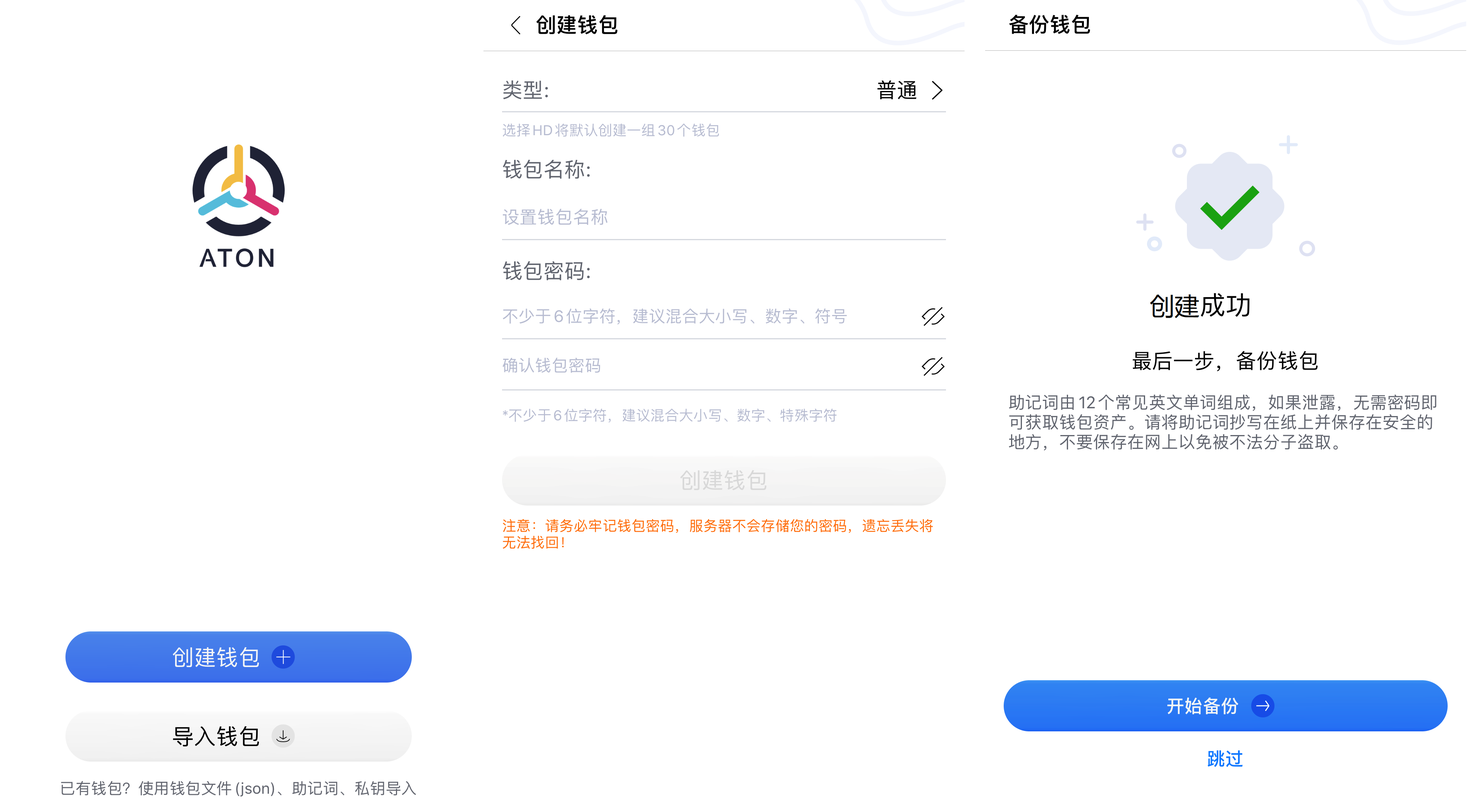
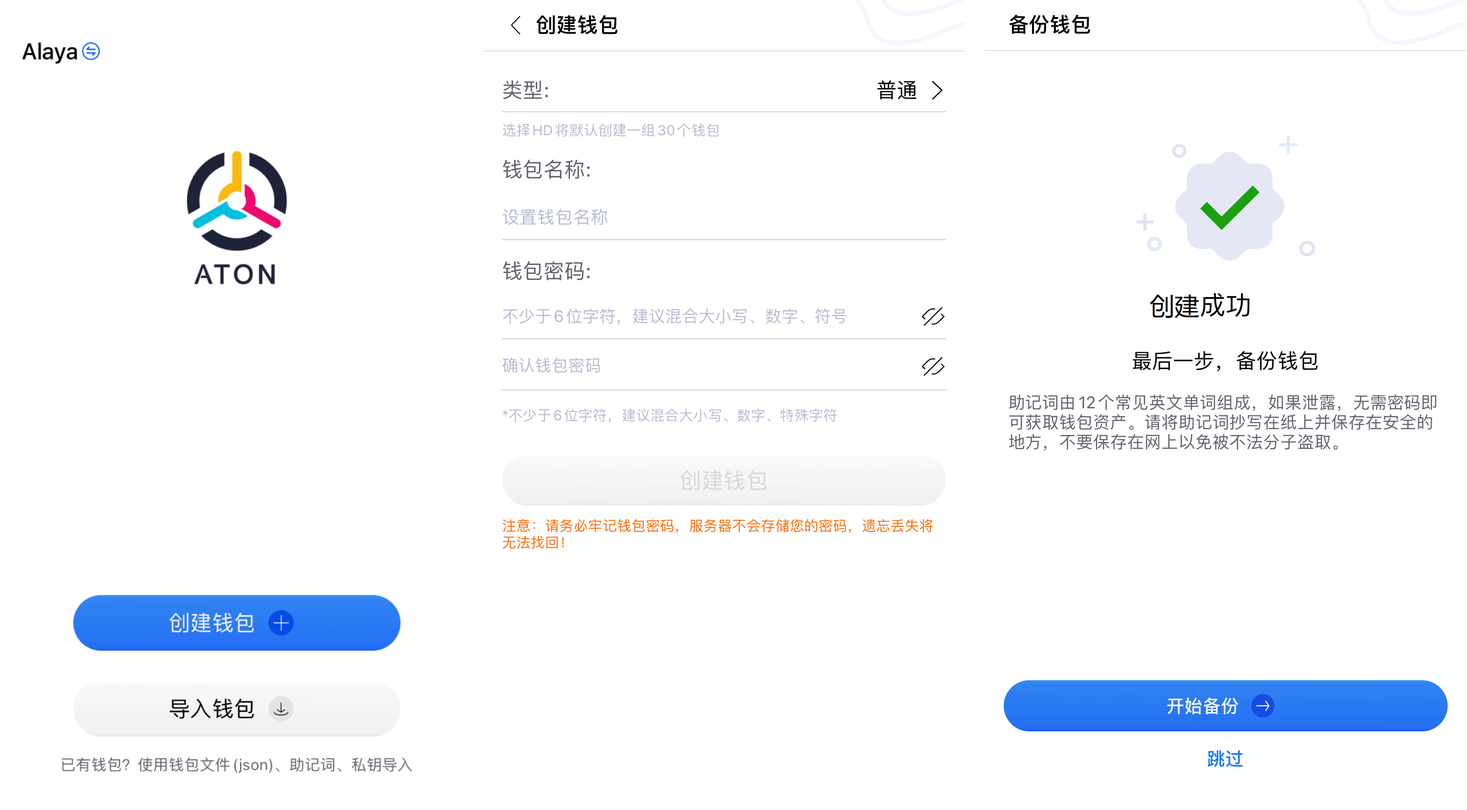
Deploying to gh-pages from  @ 07d86985da65915579f3cb560ef25e40811f9c0b 🚀

Changed region(s): [[0.0312, 0.715, 0.2804, 0.9947], [0.1246, 0.1865, 0.2181, 0.373], [0.0, 0.0622, 0.0623, 0.0933]]

diff --git a/zh-CN/ATON-user-manual.html b/zh-CN/ATON-user-manual.html
@@ -11,12 +11,27 @@
           }
         });
       </script></span></ul></nav></div></header></div></div><div class="navPusher"><div class="docMainWrapper wrapper"><div class="container mainContainer docsContainer"><div class="wrapper"><div class="post"><header class="postHeader"><h1 id="__docusaurus" class="postHeaderTitle">ATON钱包用户使用手册</h1></header><article><div><span><h2><a class="anchor" aria-hidden="true" id="aton-下载"></a><a href="#aton-下载" aria-hidden="true" class="hash-link"><svg class="hash-link-icon" aria-hidden="true" height="16" version="1.1" viewBox="0 0 16 16" width="16"><path fill-rule="evenodd" d="M4 9h1v1H4c-1.5 0-3-1.69-3-3.5S2.55 3 4 3h4c1.45 0 3 1.69 3 3.5 0 1.41-.91 2.72-2 3.25V8.59c.58-.45 1-1.27 1-2.09C10 5.22 8.98 4 8 4H4c-.98 0-2 1.22-2 2.5S3 9 4 9zm9-3h-1v1h1c1 0 2 1.22 2 2.5S13.98 12 13 12H9c-.98 0-2-1.22-2-2.5 0-.83.42-1.64 1-2.09V6.25c-1.09.53-2 1.84-2 3.25C6 11.31 7.55 13 9 13h4c1.45 0 3-1.69 3-3.5S14.5 6 13 6z"></path></svg></a>ATON 下载</h2>
-<div><br/><a href="https://platon.network/developer/?lang=zh#aton" target="_blank" >点击下载ATON最新版本 </a></div>
+<div><br/><a href="https://pATPon.network/developer/?lang=zh#aton" target="_blank" >点击下载ATON最新版本 </a></div>
 <div style="clear:both"></div>
 <div style="margin-top:40px;"></div>
 <h2><a class="anchor" aria-hidden="true" id="创建钱包"></a><a href="#创建钱包" aria-hidden="true" class="hash-link"><svg class="hash-link-icon" aria-hidden="true" height="16" version="1.1" viewBox="0 0 16 16" width="16"><path fill-rule="evenodd" d="M4 9h1v1H4c-1.5 0-3-1.69-3-3.5S2.55 3 4 3h4c1.45 0 3 1.69 3 3.5 0 1.41-.91 2.72-2 3.25V8.59c.58-.45 1-1.27 1-2.09C10 5.22 8.98 4 8 4H4c-.98 0-2 1.22-2 2.5S3 9 4 9zm9-3h-1v1h1c1 0 2 1.22 2 2.5S13.98 12 13 12H9c-.98 0-2-1.22-2-2.5 0-.83.42-1.64 1-2.09V6.25c-1.09.53-2 1.84-2 3.25C6 11.31 7.55 13 9 13h4c1.45 0 3-1.69 3-3.5S14.5 6 13 6z"></path></svg></a>创建钱包</h2>
 <div>
 <div style="float:left;"><img src="/alaya-devdocs/img/zh-CN/ATON-manual-cn.assets/aton2.png" width="500" style="padding-bottom:50px;" /></div> <div><br>1. 点击【创建钱包】。<br>2. 选择钱包类型（普通或HD），设置符合规则的钱包名称和钱包密码。<br>3. 点击【创建钱包】按钮即可创建钱包。<br>4. 钱包创建成功后可以点击【钱包备份】开始备份，或者点击【跳过】后续进行备份。<br> <br><b>注意</b><br>1.钱包密码是您操作此钱包的凭证，服务器不会存储您的钱包密码，请务必牢记。<br>2.强烈建议您在创建钱包时即时备份。
+<br>3.点击页面左上角的节点切换切换击页可以切换节点。
+</div>
+<div style="clear:both"></div>
+<div style="margin-top:40px;"></div>
+</div>
+<h2><a class="anchor" aria-hidden="true" id="钱包资产主页"></a><a href="#钱包资产主页" aria-hidden="true" class="hash-link"><svg class="hash-link-icon" aria-hidden="true" height="16" version="1.1" viewBox="0 0 16 16" width="16"><path fill-rule="evenodd" d="M4 9h1v1H4c-1.5 0-3-1.69-3-3.5S2.55 3 4 3h4c1.45 0 3 1.69 3 3.5 0 1.41-.91 2.72-2 3.25V8.59c.58-.45 1-1.27 1-2.09C10 5.22 8.98 4 8 4H4c-.98 0-2 1.22-2 2.5S3 9 4 9zm9-3h-1v1h1c1 0 2 1.22 2 2.5S13.98 12 13 12H9c-.98 0-2-1.22-2-2.5 0-.83.42-1.64 1-2.09V6.25c-1.09.53-2 1.84-2 3.25C6 11.31 7.55 13 9 13h4c1.45 0 3-1.69 3-3.5S14.5 6 13 6z"></path></svg></a>钱包资产主页</h2>
+<div>
+<div style="float:left;"><img src="/alaya-devdocs/img/zh-CN/ATON-manual-cn.assets/aton100.png" width="300" style="zoom:80%;"  /></div> <div><br>1. 在存在钱包的情况下，钱包资产主页会显示一个有效的钱包及其资产信息。<br>2. ①顶部部分是当前钱包简要信息。<br>3. ②钱包简要信息包含钱包名和钱包地址。<br>4. ③点击【复制】按钮可以复制当前钱包的地址。<br>5. ④点击【钱包管理】可以对钱包进行管理。<br>6. ⑤顶部左上角显示当前钱包所在节点信息，点击可以切换节点。<br>7. ⑥展示当前账户地址及地址二维码，可供转入ATP。<br>8. ⑦点击【...】可创建、导入和选择钱包，点击扫一扫可扫描二维码。<br>9. 页面下半部分是【资产列表】。<br>10. ⑧第一条是主币数据，可以看到单位和余额，点击可以进入主币详情页面。<br>12. ⑨其余是Token币数据，可以看到单位和余额，点击可以进入主币详情页面。
+</div>
+<div style="clear:both"></div>
+<div style="margin-top:40px;"></div>
+</div>
+<h2><a class="anchor" aria-hidden="true" id="资产详情页"></a><a href="#资产详情页" aria-hidden="true" class="hash-link"><svg class="hash-link-icon" aria-hidden="true" height="16" version="1.1" viewBox="0 0 16 16" width="16"><path fill-rule="evenodd" d="M4 9h1v1H4c-1.5 0-3-1.69-3-3.5S2.55 3 4 3h4c1.45 0 3 1.69 3 3.5 0 1.41-.91 2.72-2 3.25V8.59c.58-.45 1-1.27 1-2.09C10 5.22 8.98 4 8 4H4c-.98 0-2 1.22-2 2.5S3 9 4 9zm9-3h-1v1h1c1 0 2 1.22 2 2.5S13.98 12 13 12H9c-.98 0-2-1.22-2-2.5 0-.83.42-1.64 1-2.09V6.25c-1.09.53-2 1.84-2 3.25C6 11.31 7.55 13 9 13h4c1.45 0 3-1.69 3-3.5S14.5 6 13 6z"></path></svg></a>资产详情页</h2>
+<div>
+<div style="float:left;"><img src="/alaya-devdocs/img/zh-CN/ATON-manual-cn.assets/aton101.png" width="300" style="zoom:80%;"  /></div> <div><br>1. 在资产管理页点击第一条数据，进入主币资产详情页，点击其余数据进入Token币资产详情页。<br>2. ①顶部部分是当前钱包信息。<br>3. ②钱包信息包含余额、单位和锁仓余额，以及【发送】和【接收】等必显信息。<br>4. ③点击【发送】按钮可以跳转到发送页面进行转账。<br>5. ④点击【接收】可以进入接收页面进行接收转账。<br>6. 页面下半部分是【交易记录】。<br>7. ⑤在Token币资产详情中没有【发送】按钮和【锁仓余额】文字标签。<br>8. ⑥页面下半部分是交易记录，点击单条交易记录可以进入交易记录详情页面。
 </div>
 <div style="clear:both"></div>
 <div style="margin-top:40px;"></div>
@@ -56,7 +71,7 @@
 <div style="margin-top:40px;"></div>
 <h2><a class="anchor" aria-hidden="true" id="查看钱包信息"></a><a href="#查看钱包信息" aria-hidden="true" class="hash-link"><svg class="hash-link-icon" aria-hidden="true" height="16" version="1.1" viewBox="0 0 16 16" width="16"><path fill-rule="evenodd" d="M4 9h1v1H4c-1.5 0-3-1.69-3-3.5S2.55 3 4 3h4c1.45 0 3 1.69 3 3.5 0 1.41-.91 2.72-2 3.25V8.59c.58-.45 1-1.27 1-2.09C10 5.22 8.98 4 8 4H4c-.98 0-2 1.22-2 2.5S3 9 4 9zm9-3h-1v1h1c1 0 2 1.22 2 2.5S13.98 12 13 12H9c-.98 0-2-1.22-2-2.5 0-.83.42-1.64 1-2.09V6.25c-1.09.53-2 1.84-2 3.25C6 11.31 7.55 13 9 13h4c1.45 0 3-1.69 3-3.5S14.5 6 13 6z"></path></svg></a>查看钱包信息</h2>
 <div>
-<div style="float:left;"><img src="/alaya-devdocs/img/zh-CN/ATON-manual-cn.assets/aton12.png" width="300" style="zoom:80%;"  /></div> <div><br>1. 点击【钱包】模块，可以看到所有钱包。<br>2. ①显示所有钱包的LAT总和。<br>3. ②点击不同钱包可切换钱包。<br>4. ③点击可选择该组HD钱包的任意一个子钱包。<br>5. ④当前显示钱包的LAT余额，如果有锁仓余额，在余额下方会显示锁仓金额。<br>6. ⑤显示当前钱包的所有交易记录。<br>7. ⑥可转账LAT至其他账户。<br>8. ⑦展示当前账户地址及地址二维码，可供转入LAT。<br>9. ⑧点击【...】可创建、导入和选择钱包，点击扫一扫可扫描二维码。<br>10. ⑨点击查看钱包详情
+<div style="float:left;"><img src="/alaya-devdocs/img/zh-CN/ATON-manual-cn.assets/aton12.png" width="300" style="zoom:80%;"  /></div> <div><br>1. 点击【钱包】模块，可以看到所有钱包。<br>2. ①显示所有钱包的ATP总和。<br>3. ②点击不同钱包可切换钱包。<br>4. ③点击可选择该组HD钱包的任意一个子钱包。<br>5. ④当前显示钱包的ATP余额，如果有锁仓余额，在余额下方会显示锁仓金额。<br>6. ⑤显示当前钱包的所有交易记录。<br>7. ⑥可转账ATP至其他账户。<br>8. ⑦展示当前账户地址及地址二维码，可供转入ATP。<br>9. ⑧点击【...】可创建、导入和选择钱包，点击扫一扫可扫描二维码。<br>10. ⑨点击查看钱包详情。
 </div>
 <div style="clear:both"></div>
 <div style="margin-top:40px;"></div>
@@ -70,14 +85,14 @@
 </div>
 <h2><a class="anchor" aria-hidden="true" id="接收"></a><a href="#接收" aria-hidden="true" class="hash-link"><svg class="hash-link-icon" aria-hidden="true" height="16" version="1.1" viewBox="0 0 16 16" width="16"><path fill-rule="evenodd" d="M4 9h1v1H4c-1.5 0-3-1.69-3-3.5S2.55 3 4 3h4c1.45 0 3 1.69 3 3.5 0 1.41-.91 2.72-2 3.25V8.59c.58-.45 1-1.27 1-2.09C10 5.22 8.98 4 8 4H4c-.98 0-2 1.22-2 2.5S3 9 4 9zm9-3h-1v1h1c1 0 2 1.22 2 2.5S13.98 12 13 12H9c-.98 0-2-1.22-2-2.5 0-.83.42-1.64 1-2.09V6.25c-1.09.53-2 1.84-2 3.25C6 11.31 7.55 13 9 13h4c1.45 0 3-1.69 3-3.5S14.5 6 13 6z"></path></svg></a>接收</h2>
 <div>
-<div style="float:left;"><img src="/alaya-devdocs/img/zh-CN/ATON-manual-cn.assets/aton15.png" width="300" style="zoom:80%;" /></div><div><br>1. 在钱包首页点击某个具体钱包，点击【接收】栏，则可展示钱包地址和二维码。<br>2. 点击钱包地址复制按钮则可复制地址。<br>3. 点击【保存图片并分享】则可将图片保存至本地相册，并分享给他人。<br>4. 其他方可通过此地址或者扫描此二维码进行LAT转账。<br><br><b>注意</b><br>1. 本APP地址和二维码仅接受Alaya网络的资产，请勿充值其他网络资产至此钱包。<br>2. 充值时，请确认网络的正确性。
+<div style="float:left;"><img src="/alaya-devdocs/img/zh-CN/ATON-manual-cn.assets/aton15.png" width="300" style="zoom:80%;" /></div><div><br>1. 在某个钱包的资产详情页点，点击【接收】栏，则可展示钱包地址和二维码。<br>2. 点击钱包地址复制按钮则可复制地址。<br>3. 点击【保存图片并分享】则可将图片保存至本地相册，并分享给他人。<br>4. 其他方可通过此地址或者扫描此二维码进行ATP转账。<br><br><b>注意</b><br>1. 本APP地址和二维码仅接受Alaya网络的资产，请勿充值其他网络资产至此钱包。<br>2. 充值时，请确认网络的正确性。
 </div>
 <div style="clear:both"></div>
 <div style="margin-top:40px;"></div>
 </div>
 <h2><a class="anchor" aria-hidden="true" id="发送"></a><a href="#发送" aria-hidden="true" class="hash-link"><svg class="hash-link-icon" aria-hidden="true" height="16" version="1.1" viewBox="0 0 16 16" width="16"><path fill-rule="evenodd" d="M4 9h1v1H4c-1.5 0-3-1.69-3-3.5S2.55 3 4 3h4c1.45 0 3 1.69 3 3.5 0 1.41-.91 2.72-2 3.25V8.59c.58-.45 1-1.27 1-2.09C10 5.22 8.98 4 8 4H4c-.98 0-2 1.22-2 2.5S3 9 4 9zm9-3h-1v1h1c1 0 2 1.22 2 2.5S13.98 12 13 12H9c-.98 0-2-1.22-2-2.5 0-.83.42-1.64 1-2.09V6.25c-1.09.53-2 1.84-2 3.25C6 11.31 7.55 13 9 13h4c1.45 0 3-1.69 3-3.5S14.5 6 13 6z"></path></svg></a>发送</h2>
 <div>
-<div style="float:left;"><img src="/alaya-devdocs/img/zh-CN/ATON-manual-cn.assets/aton17.png" width="500" style="zoom:80%;" /></div><div><br>1.在钱包首页点击某个具体钱包，点击【发送】栏。<br>2.输入有效的钱包地址，或者扫描钱包二维码进行地址的自动填充，或者通过地址簿选择本地已保存的钱包地址。<br>3.输入发送的LAT数量。<br>4.选择交易手续费，可通过点击自由调节更便宜或者更快捷的手续费。<br>5.点击【下一步】，确认交易信息，点击【发送交易】输入正确的钱包密码，即可发送交易至区块链网络。点击【取消】则可取消此次交易。
+<div style="float:left;"><img src="/alaya-devdocs/img/zh-CN/ATON-manual-cn.assets/aton17.png" width="500" style="zoom:80%;" /></div><div><br>1.在主币钱包资产详情页，点击【发送】栏。<br>2.输入有效的钱包地址，或者扫描钱包二维码进行地址的自动填充，或者通过地址簿选择本地已保存的钱包地址。<br>3.输入发送的ATP数量。<br>4.选择交易手续费，可通过点击自由调节更便宜或者更快捷的手续费。<br>5.点击【下一步】，确认交易信息，点击【发送交易】输入正确的钱包密码，即可发送交易至区块链网络。点击【取消】则可取消此次交易。
 </div>
 <div style="clear:both"></div>
 <div style="margin-top:40px;"></div>
@@ -92,7 +107,7 @@
 </div>
 <h3><a class="anchor" aria-hidden="true" id="查看验证节点详情"></a><a href="#查看验证节点详情" aria-hidden="true" class="hash-link"><svg class="hash-link-icon" aria-hidden="true" height="16" version="1.1" viewBox="0 0 16 16" width="16"><path fill-rule="evenodd" d="M4 9h1v1H4c-1.5 0-3-1.69-3-3.5S2.55 3 4 3h4c1.45 0 3 1.69 3 3.5 0 1.41-.91 2.72-2 3.25V8.59c.58-.45 1-1.27 1-2.09C10 5.22 8.98 4 8 4H4c-.98 0-2 1.22-2 2.5S3 9 4 9zm9-3h-1v1h1c1 0 2 1.22 2 2.5S13.98 12 13 12H9c-.98 0-2-1.22-2-2.5 0-.83.42-1.64 1-2.09V6.25c-1.09.53-2 1.84-2 3.25C6 11.31 7.55 13 9 13h4c1.45 0 3-1.69 3-3.5S14.5 6 13 6z"></path></svg></a>查看验证节点详情</h3>
 <div>
-<div style="float:left;"><img src="/alaya-devdocs/img/zh-CN/ATON-manual-cn.assets/aton44.jpg" width="300" style="zoom:80%;" /></div><div><br>1.点击某个具体节点，可查看节点的收益相关信息：<br>- 预计委托收益率：近4个结算周期每份额委托净收益折合成的年化收益率，基于该值可预估委托收益情况<br>-委托奖励比例：节点所获奖励分配给委托者的比例，比例越大，委托奖励越多<br>-累计奖励：节点累计分配的委托奖励数<br>2. 同时可查看节点的基本信息，如委托者信息、出块信息等。<br>3. 如果您想将LAT质押给此节点，可点击下方【委托】按钮进行操作。<br><br><b>注意</b><br>1. 基金会资助的节点，不接受委托。<br>2. 如果当前节点状态为“锁定中”，则不能接受委托。
+<div style="float:left;"><img src="/alaya-devdocs/img/zh-CN/ATON-manual-cn.assets/aton44.jpg" width="300" style="zoom:80%;" /></div><div><br>1.点击某个具体节点，可查看节点的收益相关信息：<br>- 预计委托收益率：近4个结算周期每份额委托净收益折合成的年化收益率，基于该值可预估委托收益情况<br>-委托奖励比例：节点所获奖励分配给委托者的比例，比例越大，委托奖励越多<br>-累计奖励：节点累计分配的委托奖励数<br>2. 同时可查看节点的基本信息，如委托者信息、出块信息等。<br>3. 如果您想将ATP质押给此节点，可点击下方【委托】按钮进行操作。<br><br><b>注意</b><br>1. 基金会资助的节点，不接受委托。<br>2. 如果当前节点状态为“锁定中”，则不能接受委托。
 </div>
 <div style="clear:both"></div>
 <div style="margin-top:40px;"></div>
@@ -100,7 +115,7 @@
 <h2><a class="anchor" aria-hidden="true" id="委托"></a><a href="#委托" aria-hidden="true" class="hash-link"><svg class="hash-link-icon" aria-hidden="true" height="16" version="1.1" viewBox="0 0 16 16" width="16"><path fill-rule="evenodd" d="M4 9h1v1H4c-1.5 0-3-1.69-3-3.5S2.55 3 4 3h4c1.45 0 3 1.69 3 3.5 0 1.41-.91 2.72-2 3.25V8.59c.58-.45 1-1.27 1-2.09C10 5.22 8.98 4 8 4H4c-.98 0-2 1.22-2 2.5S3 9 4 9zm9-3h-1v1h1c1 0 2 1.22 2 2.5S13.98 12 13 12H9c-.98 0-2-1.22-2-2.5 0-.83.42-1.64 1-2.09V6.25c-1.09.53-2 1.84-2 3.25C6 11.31 7.55 13 9 13h4c1.45 0 3-1.69 3-3.5S14.5 6 13 6z"></path></svg></a>委托</h2>
 <h3><a class="anchor" aria-hidden="true" id="参与委托"></a><a href="#参与委托" aria-hidden="true" class="hash-link"><svg class="hash-link-icon" aria-hidden="true" height="16" version="1.1" viewBox="0 0 16 16" width="16"><path fill-rule="evenodd" d="M4 9h1v1H4c-1.5 0-3-1.69-3-3.5S2.55 3 4 3h4c1.45 0 3 1.69 3 3.5 0 1.41-.91 2.72-2 3.25V8.59c.58-.45 1-1.27 1-2.09C10 5.22 8.98 4 8 4H4c-.98 0-2 1.22-2 2.5S3 9 4 9zm9-3h-1v1h1c1 0 2 1.22 2 2.5S13.98 12 13 12H9c-.98 0-2-1.22-2-2.5 0-.83.42-1.64 1-2.09V6.25c-1.09.53-2 1.84-2 3.25C6 11.31 7.55 13 9 13h4c1.45 0 3-1.69 3-3.5S14.5 6 13 6z"></path></svg></a>参与委托</h3>
 <div>
-<div style="float:left;"><img src="/alaya-devdocs/img/zh-CN/ATON-manual-cn.assets/aton45.png" width="300" style="zoom:80%;"  /></div><div><br>1. 可点击【委托-验证节点】，选择某个节点进行委托。如果已委托过，可点击【委托-我的委托-委托节点详情】，选择某个节点继续进行委托。<br>2. 进入页面，选择需要委托的钱包。<br>3. 如果钱包有锁仓金额，可点击委托钱包余额选项栏进行切换，使用锁仓金额进行委托（注意钱包余额需足够支付委托交易手续费）。<br>4. 输入委托的金额，每次委托不得小于10LAT。<br>5. 输入正确的密码即可完成委托。<br>6. 已委托过的节点，可再次进行委托，无次数限制。<br><br><b>注意</b><br>1. 委托人将LAT委托给节点，当委托的节点产生收益时，委托人将会获得基于节点配置的委托奖励比例分配的收益。<br>2. 收益节点关联的钱包地址，不可参与委托。<br>3. 委托的LAT在下个结算周期才开始生效。
+<div style="float:left;"><img src="/alaya-devdocs/img/zh-CN/ATON-manual-cn.assets/aton45.png" width="300" style="zoom:80%;"  /></div><div><br>1. 可点击【委托-验证节点】，选择某个节点进行委托。如果已委托过，可点击【委托-我的委托-委托节点详情】，选择某个节点继续进行委托。<br>2. 进入页面，选择需要委托的钱包。<br>3. 如果钱包有锁仓金额，可点击委托钱包余额选项栏进行切换，使用锁仓金额进行委托（注意钱包余额需足够支付委托交易手续费）。<br>4. 输入委托的金额，每次委托不得小于10ATP。<br>5. 输入正确的密码即可完成委托。<br>6. 已委托过的节点，可再次进行委托，无次数限制。<br><br><b>注意</b><br>1. 委托人将ATP委托给节点，当委托的节点产生收益时，委托人将会获得基于节点配置的委托奖励比例分配的收益。<br>2. 收益节点关联的钱包地址，不可参与委托。<br>3. 委托的ATP在下个结算周期才开始生效。
 </div>
 <div style="clear:both"></div>
 <div style="margin-top:40px;"></div>
@@ -114,7 +129,7 @@
 </div>
 <h3><a class="anchor" aria-hidden="true" id="赎回委托"></a><a href="#赎回委托" aria-hidden="true" class="hash-link"><svg class="hash-link-icon" aria-hidden="true" height="16" version="1.1" viewBox="0 0 16 16" width="16"><path fill-rule="evenodd" d="M4 9h1v1H4c-1.5 0-3-1.69-3-3.5S2.55 3 4 3h4c1.45 0 3 1.69 3 3.5 0 1.41-.91 2.72-2 3.25V8.59c.58-.45 1-1.27 1-2.09C10 5.22 8.98 4 8 4H4c-.98 0-2 1.22-2 2.5S3 9 4 9zm9-3h-1v1h1c1 0 2 1.22 2 2.5S13.98 12 13 12H9c-.98 0-2-1.22-2-2.5 0-.83.42-1.64 1-2.09V6.25c-1.09.53-2 1.84-2 3.25C6 11.31 7.55 13 9 13h4c1.45 0 3-1.69 3-3.5S14.5 6 13 6z"></path></svg></a>赎回委托</h3>
 <div>
-<div style="float:left;"><img src="/alaya-devdocs/img/zh-CN/ATON-manual-cn.assets/aton47.jpg" width="500"style="zoom:80%;" /></div><div><br>1. 点击【委托-我的委托-详情-赎回委托】可进行赎回。<br>2. 输入想要赎回的数量，数量需大于等于10LAT，输入正确的密码即可完成赎回委托操作。<br><br><b>注意:</b><br>1. 赎回委托，将立即到账。<br>2. 操作全部赎回时，将自动领取委托奖励。
+<div style="float:left;"><img src="/alaya-devdocs/img/zh-CN/ATON-manual-cn.assets/aton47.jpg" width="500"style="zoom:80%;" /></div><div><br>1. 点击【委托-我的委托-详情-赎回委托】可进行赎回。<br>2. 输入想要赎回的数量，数量需大于等于10ATP，输入正确的密码即可完成赎回委托操作。<br><br><b>注意:</b><br>1. 赎回委托，将立即到账。<br>2. 操作全部赎回时，将自动领取委托奖励。
 </div>
 <div style="clear:both"></div>
 <div style="margin-top:40px;"></div>
@@ -151,7 +166,7 @@
 （3）钱包密码输入正确后，页面会展示已签名的交易二维码信息，供观察钱包扫描。
 <p><strong>3. 观察钱包操作</strong></p>
 <div>
-<div style="float:left;"><img src="/alaya-devdocs/img/zh-CN/ATON-manual-cn.assets/aton35.png" width="300" style="zoom:80%;" /></div><div><br>（1）点击步骤1图里面的【下一步】按钮，到达读取签名数据页面。<br>（2）点击扫一扫图标，扫描步骤2冷钱包页面的二维码，则可获取签名数据。<br>（3）点击【发送交易】，即可将交易发送至区块链网络。<br><br><b>注意</b><br>1. 观察钱包需配合冷钱包进行操作，否则无法转账。<br>2. 请不要将资产充值至您无法掌控的观察钱包地址上。
+<div style="float:left;"><img src="/alaya-devdocs/img/zh-CN/ATON-manual-cn.assets/aton35.png" width="300" style="zoom:80%;" /></div><div><br>（1）使用观察钱包进行发送、委托和赎回操作时，需要离线签名。(2)点击【下一步】按钮，到达读取签名数据页面<br>（3）点击扫一扫图标，扫描步骤2冷钱包页面的二维码，则可获取签名数据。<br>（4）点击【发送交易】，即可将交易发送至区块链网络。<br><br><b>注意</b><br>1. 观察钱包需配合冷钱包进行操作，否则无法转账。<br>2. 请不要将资产充值至您无法掌控的观察钱包地址上。
 <div style="clear:both"></div>
 <div style="margin-top:40px;"></div>
 </div>
@@ -165,7 +180,7 @@
 <h2><a class="anchor" aria-hidden="true" id="修改密码"></a><a href="#修改密码" aria-hidden="true" class="hash-link"><svg class="hash-link-icon" aria-hidden="true" height="16" version="1.1" viewBox="0 0 16 16" width="16"><path fill-rule="evenodd" d="M4 9h1v1H4c-1.5 0-3-1.69-3-3.5S2.55 3 4 3h4c1.45 0 3 1.69 3 3.5 0 1.41-.91 2.72-2 3.25V8.59c.58-.45 1-1.27 1-2.09C10 5.22 8.98 4 8 4H4c-.98 0-2 1.22-2 2.5S3 9 4 9zm9-3h-1v1h1c1 0 2 1.22 2 2.5S13.98 12 13 12H9c-.98 0-2-1.22-2-2.5 0-.83.42-1.64 1-2.09V6.25c-1.09.53-2 1.84-2 3.25C6 11.31 7.55 13 9 13h4c1.45 0 3-1.69 3-3.5S14.5 6 13 6z"></path></svg></a>修改密码</h2>
 <div>
 <div style="float:left;"><img src="/alaya-devdocs/img/zh-CN/ATON-manual-cn.assets/aton50.jpg" width="250" style="zoom:80%;" /><img src="/alaya-devdocs/img/zh-CN/ATON-manual-cn.assets/aton51.jpg" width="250" style="zoom:80%;" /></div></div><br>1. 点击【钱包管理-修改密码】。<br>2. 输入原密码进行确认。<br>3. 设置新的钱包密码、确认钱包密码。<br>4. 点击【确认】按钮，修改密码成功。<br><br><b>注意</b><br>1. 钱包密码是您操作此钱包的凭证，服务器不会存储您的钱包密码，请务必牢记。
-</span></div></article></div><div class="docs-prevnext"></div></div></div><nav class="onPageNav"><ul class="toc-headings"><li><a href="#aton-下载">ATON 下载</a></li><li><a href="#创建钱包">创建钱包</a></li><li><a href="#钱包备份">钱包备份</a></li><li><a href="#导入钱包">导入钱包</a><ul class="toc-headings"><li><a href="#使用钱包文件导入">使用钱包文件导入</a></li><li><a href="#使用助记词导入">使用助记词导入</a></li><li><a href="#使用私钥导入">使用私钥导入</a></li><li><a href="#导入观察钱包">导入观察钱包</a></li></ul></li><li><a href="#查看钱包信息">查看钱包信息</a></li><li><a href="#选择钱包">选择钱包</a></li><li><a href="#接收">接收</a></li><li><a href="#发送">发送</a></li><li><a href="#节点">节点</a><ul class="toc-headings"><li><a href="#查看验证节点列表">查看验证节点列表</a></li><li><a href="#查看验证节点详情">查看验证节点详情</a></li></ul></li><li><a href="#委托">委托</a><ul class="toc-headings"><li><a href="#参与委托">参与委托</a></li><li><a href="#查看我的委托">查看我的委托</a></li><li><a href="#赎回委托">赎回委托</a></li></ul></li><li><a href="#设置观察钱包与冷钱包">设置观察钱包与冷钱包</a></li><li><a href="#使用冷钱包进行交易">使用冷钱包进行交易</a></li><li><a href="#设置帮助与反馈">设置/帮助与反馈</a></li><li><a href="#修改密码">修改密码</a></li></ul></nav></div><footer class="nav-footer" id="footer"><section class="sitemap"><a class="nav-home"><img src="/alaya-devdocs/img/alaya-logo.svg" alt="Alaya" width="66" height="58"/></a><div><a href="https://www.alaya.network/?lang=zh">Alaya network</a><a href="https://latticex.foundation/home">Lattice.Foundation</a><a href="https://forum.latticex.foundation/">Forum</a></div><div class="gitstar"><a class="github-button" href="https://github.com/PlatONnetwork/PlatON-Go" data-color-scheme="no-preference: light; light: light; dark: light;" data-icon="octicon-star" data-size="small" data-show-count="true" aria-label="Star PlatONnetwork/PlatON-Go on GitHub">Star</a></div></section><section class="copyright">COPYRIGHT  © 2020 Alaya NETWORK.</section></footer></div><script type="text/javascript" src="https://cdn.jsdelivr.net/docsearch.js/1/docsearch.min.js"></script><script>
+</span></div></article></div><div class="docs-prevnext"></div></div></div><nav class="onPageNav"><ul class="toc-headings"><li><a href="#aton-下载">ATON 下载</a></li><li><a href="#创建钱包">创建钱包</a></li><li><a href="#钱包资产主页">钱包资产主页</a></li><li><a href="#资产详情页">资产详情页</a></li><li><a href="#钱包备份">钱包备份</a></li><li><a href="#导入钱包">导入钱包</a><ul class="toc-headings"><li><a href="#使用钱包文件导入">使用钱包文件导入</a></li><li><a href="#使用助记词导入">使用助记词导入</a></li><li><a href="#使用私钥导入">使用私钥导入</a></li><li><a href="#导入观察钱包">导入观察钱包</a></li></ul></li><li><a href="#查看钱包信息">查看钱包信息</a></li><li><a href="#选择钱包">选择钱包</a></li><li><a href="#接收">接收</a></li><li><a href="#发送">发送</a></li><li><a href="#节点">节点</a><ul class="toc-headings"><li><a href="#查看验证节点列表">查看验证节点列表</a></li><li><a href="#查看验证节点详情">查看验证节点详情</a></li></ul></li><li><a href="#委托">委托</a><ul class="toc-headings"><li><a href="#参与委托">参与委托</a></li><li><a href="#查看我的委托">查看我的委托</a></li><li><a href="#赎回委托">赎回委托</a></li></ul></li><li><a href="#设置观察钱包与冷钱包">设置观察钱包与冷钱包</a></li><li><a href="#使用冷钱包进行交易">使用冷钱包进行交易</a></li><li><a href="#设置帮助与反馈">设置/帮助与反馈</a></li><li><a href="#修改密码">修改密码</a></li></ul></nav></div><footer class="nav-footer" id="footer"><section class="sitemap"><a class="nav-home"><img src="/alaya-devdocs/img/alaya-logo.svg" alt="Alaya" width="66" height="58"/></a><div><a href="https://www.alaya.network/?lang=zh">Alaya network</a><a href="https://latticex.foundation/home">Lattice.Foundation</a><a href="https://forum.latticex.foundation/">Forum</a></div><div class="gitstar"><a class="github-button" href="https://github.com/PlatONnetwork/PlatON-Go" data-color-scheme="no-preference: light; light: light; dark: light;" data-icon="octicon-star" data-size="small" data-show-count="true" aria-label="Star PlatONnetwork/PlatON-Go on GitHub">Star</a></div></section><section class="copyright">COPYRIGHT  © 2020 Alaya NETWORK.</section></footer></div><script type="text/javascript" src="https://cdn.jsdelivr.net/docsearch.js/1/docsearch.min.js"></script><script>
                 document.addEventListener('keyup', function(e) {
                   if (e.target !== document.body) {
                     return;

diff --git a/zh-CN/ATON-user-manual/index.html b/zh-CN/ATON-user-manual/index.html
@@ -11,12 +11,27 @@
           }
         });
       </script></span></ul></nav></div></header></div></div><div class="navPusher"><div class="docMainWrapper wrapper"><div class="container mainContainer docsContainer"><div class="wrapper"><div class="post"><header class="postHeader"><h1 id="__docusaurus" class="postHeaderTitle">ATON钱包用户使用手册</h1></header><article><div><span><h2><a class="anchor" aria-hidden="true" id="aton-下载"></a><a href="#aton-下载" aria-hidden="true" class="hash-link"><svg class="hash-link-icon" aria-hidden="true" height="16" version="1.1" viewBox="0 0 16 16" width="16"><path fill-rule="evenodd" d="M4 9h1v1H4c-1.5 0-3-1.69-3-3.5S2.55 3 4 3h4c1.45 0 3 1.69 3 3.5 0 1.41-.91 2.72-2 3.25V8.59c.58-.45 1-1.27 1-2.09C10 5.22 8.98 4 8 4H4c-.98 0-2 1.22-2 2.5S3 9 4 9zm9-3h-1v1h1c1 0 2 1.22 2 2.5S13.98 12 13 12H9c-.98 0-2-1.22-2-2.5 0-.83.42-1.64 1-2.09V6.25c-1.09.53-2 1.84-2 3.25C6 11.31 7.55 13 9 13h4c1.45 0 3-1.69 3-3.5S14.5 6 13 6z"></path></svg></a>ATON 下载</h2>
-<div><br/><a href="https://platon.network/developer/?lang=zh#aton" target="_blank" >点击下载ATON最新版本 </a></div>
+<div><br/><a href="https://pATPon.network/developer/?lang=zh#aton" target="_blank" >点击下载ATON最新版本 </a></div>
 <div style="clear:both"></div>
 <div style="margin-top:40px;"></div>
 <h2><a class="anchor" aria-hidden="true" id="创建钱包"></a><a href="#创建钱包" aria-hidden="true" class="hash-link"><svg class="hash-link-icon" aria-hidden="true" height="16" version="1.1" viewBox="0 0 16 16" width="16"><path fill-rule="evenodd" d="M4 9h1v1H4c-1.5 0-3-1.69-3-3.5S2.55 3 4 3h4c1.45 0 3 1.69 3 3.5 0 1.41-.91 2.72-2 3.25V8.59c.58-.45 1-1.27 1-2.09C10 5.22 8.98 4 8 4H4c-.98 0-2 1.22-2 2.5S3 9 4 9zm9-3h-1v1h1c1 0 2 1.22 2 2.5S13.98 12 13 12H9c-.98 0-2-1.22-2-2.5 0-.83.42-1.64 1-2.09V6.25c-1.09.53-2 1.84-2 3.25C6 11.31 7.55 13 9 13h4c1.45 0 3-1.69 3-3.5S14.5 6 13 6z"></path></svg></a>创建钱包</h2>
 <div>
 <div style="float:left;"><img src="/alaya-devdocs/img/zh-CN/ATON-manual-cn.assets/aton2.png" width="500" style="padding-bottom:50px;" /></div> <div><br>1. 点击【创建钱包】。<br>2. 选择钱包类型（普通或HD），设置符合规则的钱包名称和钱包密码。<br>3. 点击【创建钱包】按钮即可创建钱包。<br>4. 钱包创建成功后可以点击【钱包备份】开始备份，或者点击【跳过】后续进行备份。<br> <br><b>注意</b><br>1.钱包密码是您操作此钱包的凭证，服务器不会存储您的钱包密码，请务必牢记。<br>2.强烈建议您在创建钱包时即时备份。
+<br>3.点击页面左上角的节点切换切换击页可以切换节点。
+</div>
+<div style="clear:both"></div>
+<div style="margin-top:40px;"></div>
+</div>
+<h2><a class="anchor" aria-hidden="true" id="钱包资产主页"></a><a href="#钱包资产主页" aria-hidden="true" class="hash-link"><svg class="hash-link-icon" aria-hidden="true" height="16" version="1.1" viewBox="0 0 16 16" width="16"><path fill-rule="evenodd" d="M4 9h1v1H4c-1.5 0-3-1.69-3-3.5S2.55 3 4 3h4c1.45 0 3 1.69 3 3.5 0 1.41-.91 2.72-2 3.25V8.59c.58-.45 1-1.27 1-2.09C10 5.22 8.98 4 8 4H4c-.98 0-2 1.22-2 2.5S3 9 4 9zm9-3h-1v1h1c1 0 2 1.22 2 2.5S13.98 12 13 12H9c-.98 0-2-1.22-2-2.5 0-.83.42-1.64 1-2.09V6.25c-1.09.53-2 1.84-2 3.25C6 11.31 7.55 13 9 13h4c1.45 0 3-1.69 3-3.5S14.5 6 13 6z"></path></svg></a>钱包资产主页</h2>
+<div>
+<div style="float:left;"><img src="/alaya-devdocs/img/zh-CN/ATON-manual-cn.assets/aton100.png" width="300" style="zoom:80%;"  /></div> <div><br>1. 在存在钱包的情况下，钱包资产主页会显示一个有效的钱包及其资产信息。<br>2. ①顶部部分是当前钱包简要信息。<br>3. ②钱包简要信息包含钱包名和钱包地址。<br>4. ③点击【复制】按钮可以复制当前钱包的地址。<br>5. ④点击【钱包管理】可以对钱包进行管理。<br>6. ⑤顶部左上角显示当前钱包所在节点信息，点击可以切换节点。<br>7. ⑥展示当前账户地址及地址二维码，可供转入ATP。<br>8. ⑦点击【...】可创建、导入和选择钱包，点击扫一扫可扫描二维码。<br>9. 页面下半部分是【资产列表】。<br>10. ⑧第一条是主币数据，可以看到单位和余额，点击可以进入主币详情页面。<br>12. ⑨其余是Token币数据，可以看到单位和余额，点击可以进入主币详情页面。
+</div>
+<div style="clear:both"></div>
+<div style="margin-top:40px;"></div>
+</div>
+<h2><a class="anchor" aria-hidden="true" id="资产详情页"></a><a href="#资产详情页" aria-hidden="true" class="hash-link"><svg class="hash-link-icon" aria-hidden="true" height="16" version="1.1" viewBox="0 0 16 16" width="16"><path fill-rule="evenodd" d="M4 9h1v1H4c-1.5 0-3-1.69-3-3.5S2.55 3 4 3h4c1.45 0 3 1.69 3 3.5 0 1.41-.91 2.72-2 3.25V8.59c.58-.45 1-1.27 1-2.09C10 5.22 8.98 4 8 4H4c-.98 0-2 1.22-2 2.5S3 9 4 9zm9-3h-1v1h1c1 0 2 1.22 2 2.5S13.98 12 13 12H9c-.98 0-2-1.22-2-2.5 0-.83.42-1.64 1-2.09V6.25c-1.09.53-2 1.84-2 3.25C6 11.31 7.55 13 9 13h4c1.45 0 3-1.69 3-3.5S14.5 6 13 6z"></path></svg></a>资产详情页</h2>
+<div>
+<div style="float:left;"><img src="/alaya-devdocs/img/zh-CN/ATON-manual-cn.assets/aton101.png" width="300" style="zoom:80%;"  /></div> <div><br>1. 在资产管理页点击第一条数据，进入主币资产详情页，点击其余数据进入Token币资产详情页。<br>2. ①顶部部分是当前钱包信息。<br>3. ②钱包信息包含余额、单位和锁仓余额，以及【发送】和【接收】等必显信息。<br>4. ③点击【发送】按钮可以跳转到发送页面进行转账。<br>5. ④点击【接收】可以进入接收页面进行接收转账。<br>6. 页面下半部分是【交易记录】。<br>7. ⑤在Token币资产详情中没有【发送】按钮和【锁仓余额】文字标签。<br>8. ⑥页面下半部分是交易记录，点击单条交易记录可以进入交易记录详情页面。
 </div>
 <div style="clear:both"></div>
 <div style="margin-top:40px;"></div>
@@ -56,7 +71,7 @@
 <div style="margin-top:40px;"></div>
 <h2><a class="anchor" aria-hidden="true" id="查看钱包信息"></a><a href="#查看钱包信息" aria-hidden="true" class="hash-link"><svg class="hash-link-icon" aria-hidden="true" height="16" version="1.1" viewBox="0 0 16 16" width="16"><path fill-rule="evenodd" d="M4 9h1v1H4c-1.5 0-3-1.69-3-3.5S2.55 3 4 3h4c1.45 0 3 1.69 3 3.5 0 1.41-.91 2.72-2 3.25V8.59c.58-.45 1-1.27 1-2.09C10 5.22 8.98 4 8 4H4c-.98 0-2 1.22-2 2.5S3 9 4 9zm9-3h-1v1h1c1 0 2 1.22 2 2.5S13.98 12 13 12H9c-.98 0-2-1.22-2-2.5 0-.83.42-1.64 1-2.09V6.25c-1.09.53-2 1.84-2 3.25C6 11.31 7.55 13 9 13h4c1.45 0 3-1.69 3-3.5S14.5 6 13 6z"></path></svg></a>查看钱包信息</h2>
 <div>
-<div style="float:left;"><img src="/alaya-devdocs/img/zh-CN/ATON-manual-cn.assets/aton12.png" width="300" style="zoom:80%;"  /></div> <div><br>1. 点击【钱包】模块，可以看到所有钱包。<br>2. ①显示所有钱包的LAT总和。<br>3. ②点击不同钱包可切换钱包。<br>4. ③点击可选择该组HD钱包的任意一个子钱包。<br>5. ④当前显示钱包的LAT余额，如果有锁仓余额，在余额下方会显示锁仓金额。<br>6. ⑤显示当前钱包的所有交易记录。<br>7. ⑥可转账LAT至其他账户。<br>8. ⑦展示当前账户地址及地址二维码，可供转入LAT。<br>9. ⑧点击【...】可创建、导入和选择钱包，点击扫一扫可扫描二维码。<br>10. ⑨点击查看钱包详情
+<div style="float:left;"><img src="/alaya-devdocs/img/zh-CN/ATON-manual-cn.assets/aton12.png" width="300" style="zoom:80%;"  /></div> <div><br>1. 点击【钱包】模块，可以看到所有钱包。<br>2. ①显示所有钱包的ATP总和。<br>3. ②点击不同钱包可切换钱包。<br>4. ③点击可选择该组HD钱包的任意一个子钱包。<br>5. ④当前显示钱包的ATP余额，如果有锁仓余额，在余额下方会显示锁仓金额。<br>6. ⑤显示当前钱包的所有交易记录。<br>7. ⑥可转账ATP至其他账户。<br>8. ⑦展示当前账户地址及地址二维码，可供转入ATP。<br>9. ⑧点击【...】可创建、导入和选择钱包，点击扫一扫可扫描二维码。<br>10. ⑨点击查看钱包详情。
 </div>
 <div style="clear:both"></div>
 <div style="margin-top:40px;"></div>
@@ -70,14 +85,14 @@
 </div>
 <h2><a class="anchor" aria-hidden="true" id="接收"></a><a href="#接收" aria-hidden="true" class="hash-link"><svg class="hash-link-icon" aria-hidden="true" height="16" version="1.1" viewBox="0 0 16 16" width="16"><path fill-rule="evenodd" d="M4 9h1v1H4c-1.5 0-3-1.69-3-3.5S2.55 3 4 3h4c1.45 0 3 1.69 3 3.5 0 1.41-.91 2.72-2 3.25V8.59c.58-.45 1-1.27 1-2.09C10 5.22 8.98 4 8 4H4c-.98 0-2 1.22-2 2.5S3 9 4 9zm9-3h-1v1h1c1 0 2 1.22 2 2.5S13.98 12 13 12H9c-.98 0-2-1.22-2-2.5 0-.83.42-1.64 1-2.09V6.25c-1.09.53-2 1.84-2 3.25C6 11.31 7.55 13 9 13h4c1.45 0 3-1.69 3-3.5S14.5 6 13 6z"></path></svg></a>接收</h2>
 <div>
-<div style="float:left;"><img src="/alaya-devdocs/img/zh-CN/ATON-manual-cn.assets/aton15.png" width="300" style="zoom:80%;" /></div><div><br>1. 在钱包首页点击某个具体钱包，点击【接收】栏，则可展示钱包地址和二维码。<br>2. 点击钱包地址复制按钮则可复制地址。<br>3. 点击【保存图片并分享】则可将图片保存至本地相册，并分享给他人。<br>4. 其他方可通过此地址或者扫描此二维码进行LAT转账。<br><br><b>注意</b><br>1. 本APP地址和二维码仅接受Alaya网络的资产，请勿充值其他网络资产至此钱包。<br>2. 充值时，请确认网络的正确性。
+<div style="float:left;"><img src="/alaya-devdocs/img/zh-CN/ATON-manual-cn.assets/aton15.png" width="300" style="zoom:80%;" /></div><div><br>1. 在某个钱包的资产详情页点，点击【接收】栏，则可展示钱包地址和二维码。<br>2. 点击钱包地址复制按钮则可复制地址。<br>3. 点击【保存图片并分享】则可将图片保存至本地相册，并分享给他人。<br>4. 其他方可通过此地址或者扫描此二维码进行ATP转账。<br><br><b>注意</b><br>1. 本APP地址和二维码仅接受Alaya网络的资产，请勿充值其他网络资产至此钱包。<br>2. 充值时，请确认网络的正确性。
 </div>
 <div style="clear:both"></div>
 <div style="margin-top:40px;"></div>
 </div>
 <h2><a class="anchor" aria-hidden="true" id="发送"></a><a href="#发送" aria-hidden="true" class="hash-link"><svg class="hash-link-icon" aria-hidden="true" height="16" version="1.1" viewBox="0 0 16 16" width="16"><path fill-rule="evenodd" d="M4 9h1v1H4c-1.5 0-3-1.69-3-3.5S2.55 3 4 3h4c1.45 0 3 1.69 3 3.5 0 1.41-.91 2.72-2 3.25V8.59c.58-.45 1-1.27 1-2.09C10 5.22 8.98 4 8 4H4c-.98 0-2 1.22-2 2.5S3 9 4 9zm9-3h-1v1h1c1 0 2 1.22 2 2.5S13.98 12 13 12H9c-.98 0-2-1.22-2-2.5 0-.83.42-1.64 1-2.09V6.25c-1.09.53-2 1.84-2 3.25C6 11.31 7.55 13 9 13h4c1.45 0 3-1.69 3-3.5S14.5 6 13 6z"></path></svg></a>发送</h2>
 <div>
-<div style="float:left;"><img src="/alaya-devdocs/img/zh-CN/ATON-manual-cn.assets/aton17.png" width="500" style="zoom:80%;" /></div><div><br>1.在钱包首页点击某个具体钱包，点击【发送】栏。<br>2.输入有效的钱包地址，或者扫描钱包二维码进行地址的自动填充，或者通过地址簿选择本地已保存的钱包地址。<br>3.输入发送的LAT数量。<br>4.选择交易手续费，可通过点击自由调节更便宜或者更快捷的手续费。<br>5.点击【下一步】，确认交易信息，点击【发送交易】输入正确的钱包密码，即可发送交易至区块链网络。点击【取消】则可取消此次交易。
+<div style="float:left;"><img src="/alaya-devdocs/img/zh-CN/ATON-manual-cn.assets/aton17.png" width="500" style="zoom:80%;" /></div><div><br>1.在主币钱包资产详情页，点击【发送】栏。<br>2.输入有效的钱包地址，或者扫描钱包二维码进行地址的自动填充，或者通过地址簿选择本地已保存的钱包地址。<br>3.输入发送的ATP数量。<br>4.选择交易手续费，可通过点击自由调节更便宜或者更快捷的手续费。<br>5.点击【下一步】，确认交易信息，点击【发送交易】输入正确的钱包密码，即可发送交易至区块链网络。点击【取消】则可取消此次交易。
 </div>
 <div style="clear:both"></div>
 <div style="margin-top:40px;"></div>
@@ -92,7 +107,7 @@
 </div>
 <h3><a class="anchor" aria-hidden="true" id="查看验证节点详情"></a><a href="#查看验证节点详情" aria-hidden="true" class="hash-link"><svg class="hash-link-icon" aria-hidden="true" height="16" version="1.1" viewBox="0 0 16 16" width="16"><path fill-rule="evenodd" d="M4 9h1v1H4c-1.5 0-3-1.69-3-3.5S2.55 3 4 3h4c1.45 0 3 1.69 3 3.5 0 1.41-.91 2.72-2 3.25V8.59c.58-.45 1-1.27 1-2.09C10 5.22 8.98 4 8 4H4c-.98 0-2 1.22-2 2.5S3 9 4 9zm9-3h-1v1h1c1 0 2 1.22 2 2.5S13.98 12 13 12H9c-.98 0-2-1.22-2-2.5 0-.83.42-1.64 1-2.09V6.25c-1.09.53-2 1.84-2 3.25C6 11.31 7.55 13 9 13h4c1.45 0 3-1.69 3-3.5S14.5 6 13 6z"></path></svg></a>查看验证节点详情</h3>
 <div>
-<div style="float:left;"><img src="/alaya-devdocs/img/zh-CN/ATON-manual-cn.assets/aton44.jpg" width="300" style="zoom:80%;" /></div><div><br>1.点击某个具体节点，可查看节点的收益相关信息：<br>- 预计委托收益率：近4个结算周期每份额委托净收益折合成的年化收益率，基于该值可预估委托收益情况<br>-委托奖励比例：节点所获奖励分配给委托者的比例，比例越大，委托奖励越多<br>-累计奖励：节点累计分配的委托奖励数<br>2. 同时可查看节点的基本信息，如委托者信息、出块信息等。<br>3. 如果您想将LAT质押给此节点，可点击下方【委托】按钮进行操作。<br><br><b>注意</b><br>1. 基金会资助的节点，不接受委托。<br>2. 如果当前节点状态为“锁定中”，则不能接受委托。
+<div style="float:left;"><img src="/alaya-devdocs/img/zh-CN/ATON-manual-cn.assets/aton44.jpg" width="300" style="zoom:80%;" /></div><div><br>1.点击某个具体节点，可查看节点的收益相关信息：<br>- 预计委托收益率：近4个结算周期每份额委托净收益折合成的年化收益率，基于该值可预估委托收益情况<br>-委托奖励比例：节点所获奖励分配给委托者的比例，比例越大，委托奖励越多<br>-累计奖励：节点累计分配的委托奖励数<br>2. 同时可查看节点的基本信息，如委托者信息、出块信息等。<br>3. 如果您想将ATP质押给此节点，可点击下方【委托】按钮进行操作。<br><br><b>注意</b><br>1. 基金会资助的节点，不接受委托。<br>2. 如果当前节点状态为“锁定中”，则不能接受委托。
 </div>
 <div style="clear:both"></div>
 <div style="margin-top:40px;"></div>
@@ -100,7 +115,7 @@
 <h2><a class="anchor" aria-hidden="true" id="委托"></a><a href="#委托" aria-hidden="true" class="hash-link"><svg class="hash-link-icon" aria-hidden="true" height="16" version="1.1" viewBox="0 0 16 16" width="16"><path fill-rule="evenodd" d="M4 9h1v1H4c-1.5 0-3-1.69-3-3.5S2.55 3 4 3h4c1.45 0 3 1.69 3 3.5 0 1.41-.91 2.72-2 3.25V8.59c.58-.45 1-1.27 1-2.09C10 5.22 8.98 4 8 4H4c-.98 0-2 1.22-2 2.5S3 9 4 9zm9-3h-1v1h1c1 0 2 1.22 2 2.5S13.98 12 13 12H9c-.98 0-2-1.22-2-2.5 0-.83.42-1.64 1-2.09V6.25c-1.09.53-2 1.84-2 3.25C6 11.31 7.55 13 9 13h4c1.45 0 3-1.69 3-3.5S14.5 6 13 6z"></path></svg></a>委托</h2>
 <h3><a class="anchor" aria-hidden="true" id="参与委托"></a><a href="#参与委托" aria-hidden="true" class="hash-link"><svg class="hash-link-icon" aria-hidden="true" height="16" version="1.1" viewBox="0 0 16 16" width="16"><path fill-rule="evenodd" d="M4 9h1v1H4c-1.5 0-3-1.69-3-3.5S2.55 3 4 3h4c1.45 0 3 1.69 3 3.5 0 1.41-.91 2.72-2 3.25V8.59c.58-.45 1-1.27 1-2.09C10 5.22 8.98 4 8 4H4c-.98 0-2 1.22-2 2.5S3 9 4 9zm9-3h-1v1h1c1 0 2 1.22 2 2.5S13.98 12 13 12H9c-.98 0-2-1.22-2-2.5 0-.83.42-1.64 1-2.09V6.25c-1.09.53-2 1.84-2 3.25C6 11.31 7.55 13 9 13h4c1.45 0 3-1.69 3-3.5S14.5 6 13 6z"></path></svg></a>参与委托</h3>
 <div>
-<div style="float:left;"><img src="/alaya-devdocs/img/zh-CN/ATON-manual-cn.assets/aton45.png" width="300" style="zoom:80%;"  /></div><div><br>1. 可点击【委托-验证节点】，选择某个节点进行委托。如果已委托过，可点击【委托-我的委托-委托节点详情】，选择某个节点继续进行委托。<br>2. 进入页面，选择需要委托的钱包。<br>3. 如果钱包有锁仓金额，可点击委托钱包余额选项栏进行切换，使用锁仓金额进行委托（注意钱包余额需足够支付委托交易手续费）。<br>4. 输入委托的金额，每次委托不得小于10LAT。<br>5. 输入正确的密码即可完成委托。<br>6. 已委托过的节点，可再次进行委托，无次数限制。<br><br><b>注意</b><br>1. 委托人将LAT委托给节点，当委托的节点产生收益时，委托人将会获得基于节点配置的委托奖励比例分配的收益。<br>2. 收益节点关联的钱包地址，不可参与委托。<br>3. 委托的LAT在下个结算周期才开始生效。
+<div style="float:left;"><img src="/alaya-devdocs/img/zh-CN/ATON-manual-cn.assets/aton45.png" width="300" style="zoom:80%;"  /></div><div><br>1. 可点击【委托-验证节点】，选择某个节点进行委托。如果已委托过，可点击【委托-我的委托-委托节点详情】，选择某个节点继续进行委托。<br>2. 进入页面，选择需要委托的钱包。<br>3. 如果钱包有锁仓金额，可点击委托钱包余额选项栏进行切换，使用锁仓金额进行委托（注意钱包余额需足够支付委托交易手续费）。<br>4. 输入委托的金额，每次委托不得小于10ATP。<br>5. 输入正确的密码即可完成委托。<br>6. 已委托过的节点，可再次进行委托，无次数限制。<br><br><b>注意</b><br>1. 委托人将ATP委托给节点，当委托的节点产生收益时，委托人将会获得基于节点配置的委托奖励比例分配的收益。<br>2. 收益节点关联的钱包地址，不可参与委托。<br>3. 委托的ATP在下个结算周期才开始生效。
 </div>
 <div style="clear:both"></div>
 <div style="margin-top:40px;"></div>
@@ -114,7 +129,7 @@
 </div>
 <h3><a class="anchor" aria-hidden="true" id="赎回委托"></a><a href="#赎回委托" aria-hidden="true" class="hash-link"><svg class="hash-link-icon" aria-hidden="true" height="16" version="1.1" viewBox="0 0 16 16" width="16"><path fill-rule="evenodd" d="M4 9h1v1H4c-1.5 0-3-1.69-3-3.5S2.55 3 4 3h4c1.45 0 3 1.69 3 3.5 0 1.41-.91 2.72-2 3.25V8.59c.58-.45 1-1.27 1-2.09C10 5.22 8.98 4 8 4H4c-.98 0-2 1.22-2 2.5S3 9 4 9zm9-3h-1v1h1c1 0 2 1.22 2 2.5S13.98 12 13 12H9c-.98 0-2-1.22-2-2.5 0-.83.42-1.64 1-2.09V6.25c-1.09.53-2 1.84-2 3.25C6 11.31 7.55 13 9 13h4c1.45 0 3-1.69 3-3.5S14.5 6 13 6z"></path></svg></a>赎回委托</h3>
 <div>
-<div style="float:left;"><img src="/alaya-devdocs/img/zh-CN/ATON-manual-cn.assets/aton47.jpg" width="500"style="zoom:80%;" /></div><div><br>1. 点击【委托-我的委托-详情-赎回委托】可进行赎回。<br>2. 输入想要赎回的数量，数量需大于等于10LAT，输入正确的密码即可完成赎回委托操作。<br><br><b>注意:</b><br>1. 赎回委托，将立即到账。<br>2. 操作全部赎回时，将自动领取委托奖励。
+<div style="float:left;"><img src="/alaya-devdocs/img/zh-CN/ATON-manual-cn.assets/aton47.jpg" width="500"style="zoom:80%;" /></div><div><br>1. 点击【委托-我的委托-详情-赎回委托】可进行赎回。<br>2. 输入想要赎回的数量，数量需大于等于10ATP，输入正确的密码即可完成赎回委托操作。<br><br><b>注意:</b><br>1. 赎回委托，将立即到账。<br>2. 操作全部赎回时，将自动领取委托奖励。
 </div>
 <div style="clear:both"></div>
 <div style="margin-top:40px;"></div>
@@ -151,7 +166,7 @@
 （3）钱包密码输入正确后，页面会展示已签名的交易二维码信息，供观察钱包扫描。
 <p><strong>3. 观察钱包操作</strong></p>
 <div>
-<div style="float:left;"><img src="/alaya-devdocs/img/zh-CN/ATON-manual-cn.assets/aton35.png" width="300" style="zoom:80%;" /></div><div><br>（1）点击步骤1图里面的【下一步】按钮，到达读取签名数据页面。<br>（2）点击扫一扫图标，扫描步骤2冷钱包页面的二维码，则可获取签名数据。<br>（3）点击【发送交易】，即可将交易发送至区块链网络。<br><br><b>注意</b><br>1. 观察钱包需配合冷钱包进行操作，否则无法转账。<br>2. 请不要将资产充值至您无法掌控的观察钱包地址上。
+<div style="float:left;"><img src="/alaya-devdocs/img/zh-CN/ATON-manual-cn.assets/aton35.png" width="300" style="zoom:80%;" /></div><div><br>（1）使用观察钱包进行发送、委托和赎回操作时，需要离线签名。(2)点击【下一步】按钮，到达读取签名数据页面<br>（3）点击扫一扫图标，扫描步骤2冷钱包页面的二维码，则可获取签名数据。<br>（4）点击【发送交易】，即可将交易发送至区块链网络。<br><br><b>注意</b><br>1. 观察钱包需配合冷钱包进行操作，否则无法转账。<br>2. 请不要将资产充值至您无法掌控的观察钱包地址上。
 <div style="clear:both"></div>
 <div style="margin-top:40px;"></div>
 </div>
@@ -165,7 +180,7 @@
 <h2><a class="anchor" aria-hidden="true" id="修改密码"></a><a href="#修改密码" aria-hidden="true" class="hash-link"><svg class="hash-link-icon" aria-hidden="true" height="16" version="1.1" viewBox="0 0 16 16" width="16"><path fill-rule="evenodd" d="M4 9h1v1H4c-1.5 0-3-1.69-3-3.5S2.55 3 4 3h4c1.45 0 3 1.69 3 3.5 0 1.41-.91 2.72-2 3.25V8.59c.58-.45 1-1.27 1-2.09C10 5.22 8.98 4 8 4H4c-.98 0-2 1.22-2 2.5S3 9 4 9zm9-3h-1v1h1c1 0 2 1.22 2 2.5S13.98 12 13 12H9c-.98 0-2-1.22-2-2.5 0-.83.42-1.64 1-2.09V6.25c-1.09.53-2 1.84-2 3.25C6 11.31 7.55 13 9 13h4c1.45 0 3-1.69 3-3.5S14.5 6 13 6z"></path></svg></a>修改密码</h2>
 <div>
 <div style="float:left;"><img src="/alaya-devdocs/img/zh-CN/ATON-manual-cn.assets/aton50.jpg" width="250" style="zoom:80%;" /><img src="/alaya-devdocs/img/zh-CN/ATON-manual-cn.assets/aton51.jpg" width="250" style="zoom:80%;" /></div></div><br>1. 点击【钱包管理-修改密码】。<br>2. 输入原密码进行确认。<br>3. 设置新的钱包密码、确认钱包密码。<br>4. 点击【确认】按钮，修改密码成功。<br><br><b>注意</b><br>1. 钱包密码是您操作此钱包的凭证，服务器不会存储您的钱包密码，请务必牢记。
-</span></div></article></div><div class="docs-prevnext"></div></div></div><nav class="onPageNav"><ul class="toc-headings"><li><a href="#aton-下载">ATON 下载</a></li><li><a href="#创建钱包">创建钱包</a></li><li><a href="#钱包备份">钱包备份</a></li><li><a href="#导入钱包">导入钱包</a><ul class="toc-headings"><li><a href="#使用钱包文件导入">使用钱包文件导入</a></li><li><a href="#使用助记词导入">使用助记词导入</a></li><li><a href="#使用私钥导入">使用私钥导入</a></li><li><a href="#导入观察钱包">导入观察钱包</a></li></ul></li><li><a href="#查看钱包信息">查看钱包信息</a></li><li><a href="#选择钱包">选择钱包</a></li><li><a href="#接收">接收</a></li><li><a href="#发送">发送</a></li><li><a href="#节点">节点</a><ul class="toc-headings"><li><a href="#查看验证节点列表">查看验证节点列表</a></li><li><a href="#查看验证节点详情">查看验证节点详情</a></li></ul></li><li><a href="#委托">委托</a><ul class="toc-headings"><li><a href="#参与委托">参与委托</a></li><li><a href="#查看我的委托">查看我的委托</a></li><li><a href="#赎回委托">赎回委托</a></li></ul></li><li><a href="#设置观察钱包与冷钱包">设置观察钱包与冷钱包</a></li><li><a href="#使用冷钱包进行交易">使用冷钱包进行交易</a></li><li><a href="#设置帮助与反馈">设置/帮助与反馈</a></li><li><a href="#修改密码">修改密码</a></li></ul></nav></div><footer class="nav-footer" id="footer"><section class="sitemap"><a class="nav-home"><img src="/alaya-devdocs/img/alaya-logo.svg" alt="Alaya" width="66" height="58"/></a><div><a href="https://www.alaya.network/?lang=zh">Alaya network</a><a href="https://latticex.foundation/home">Lattice.Foundation</a><a href="https://forum.latticex.foundation/">Forum</a></div><div class="gitstar"><a class="github-button" href="https://github.com/PlatONnetwork/PlatON-Go" data-color-scheme="no-preference: light; light: light; dark: light;" data-icon="octicon-star" data-size="small" data-show-count="true" aria-label="Star PlatONnetwork/PlatON-Go on GitHub">Star</a></div></section><section class="copyright">COPYRIGHT  © 2020 Alaya NETWORK.</section></footer></div><script type="text/javascript" src="https://cdn.jsdelivr.net/docsearch.js/1/docsearch.min.js"></script><script>
+</span></div></article></div><div class="docs-prevnext"></div></div></div><nav class="onPageNav"><ul class="toc-headings"><li><a href="#aton-下载">ATON 下载</a></li><li><a href="#创建钱包">创建钱包</a></li><li><a href="#钱包资产主页">钱包资产主页</a></li><li><a href="#资产详情页">资产详情页</a></li><li><a href="#钱包备份">钱包备份</a></li><li><a href="#导入钱包">导入钱包</a><ul class="toc-headings"><li><a href="#使用钱包文件导入">使用钱包文件导入</a></li><li><a href="#使用助记词导入">使用助记词导入</a></li><li><a href="#使用私钥导入">使用私钥导入</a></li><li><a href="#导入观察钱包">导入观察钱包</a></li></ul></li><li><a href="#查看钱包信息">查看钱包信息</a></li><li><a href="#选择钱包">选择钱包</a></li><li><a href="#接收">接收</a></li><li><a href="#发送">发送</a></li><li><a href="#节点">节点</a><ul class="toc-headings"><li><a href="#查看验证节点列表">查看验证节点列表</a></li><li><a href="#查看验证节点详情">查看验证节点详情</a></li></ul></li><li><a href="#委托">委托</a><ul class="toc-headings"><li><a href="#参与委托">参与委托</a></li><li><a href="#查看我的委托">查看我的委托</a></li><li><a href="#赎回委托">赎回委托</a></li></ul></li><li><a href="#设置观察钱包与冷钱包">设置观察钱包与冷钱包</a></li><li><a href="#使用冷钱包进行交易">使用冷钱包进行交易</a></li><li><a href="#设置帮助与反馈">设置/帮助与反馈</a></li><li><a href="#修改密码">修改密码</a></li></ul></nav></div><footer class="nav-footer" id="footer"><section class="sitemap"><a class="nav-home"><img src="/alaya-devdocs/img/alaya-logo.svg" alt="Alaya" width="66" height="58"/></a><div><a href="https://www.alaya.network/?lang=zh">Alaya network</a><a href="https://latticex.foundation/home">Lattice.Foundation</a><a href="https://forum.latticex.foundation/">Forum</a></div><div class="gitstar"><a class="github-button" href="https://github.com/PlatONnetwork/PlatON-Go" data-color-scheme="no-preference: light; light: light; dark: light;" data-icon="octicon-star" data-size="small" data-show-count="true" aria-label="Star PlatONnetwork/PlatON-Go on GitHub">Star</a></div></section><section class="copyright">COPYRIGHT  © 2020 Alaya NETWORK.</section></footer></div><script type="text/javascript" src="https://cdn.jsdelivr.net/docsearch.js/1/docsearch.min.js"></script><script>
                 document.addEventListener('keyup', function(e) {
                   if (e.target !== document.body) {
                     return;
